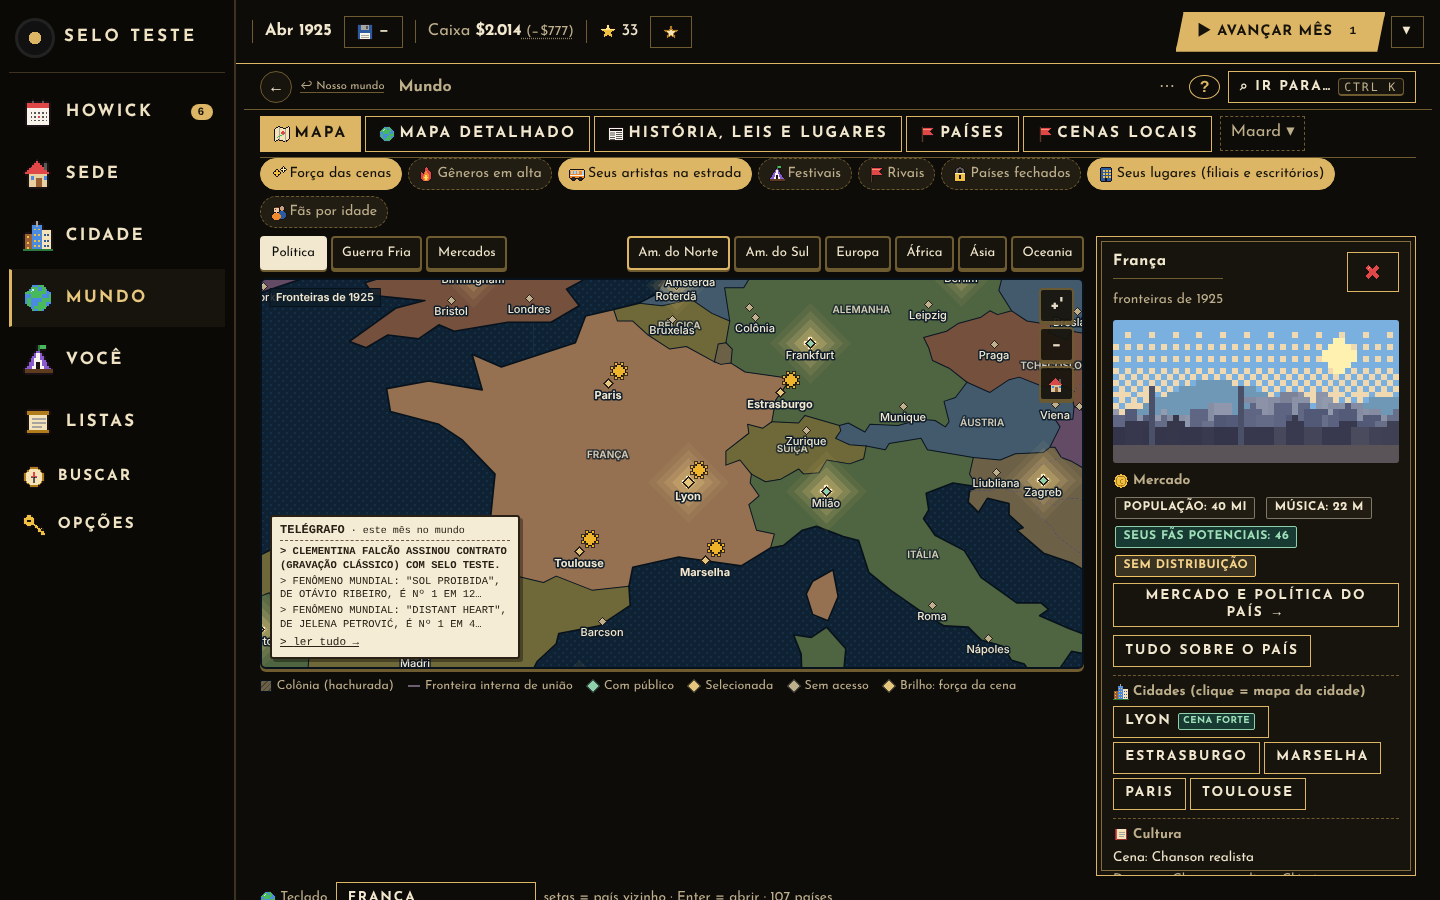
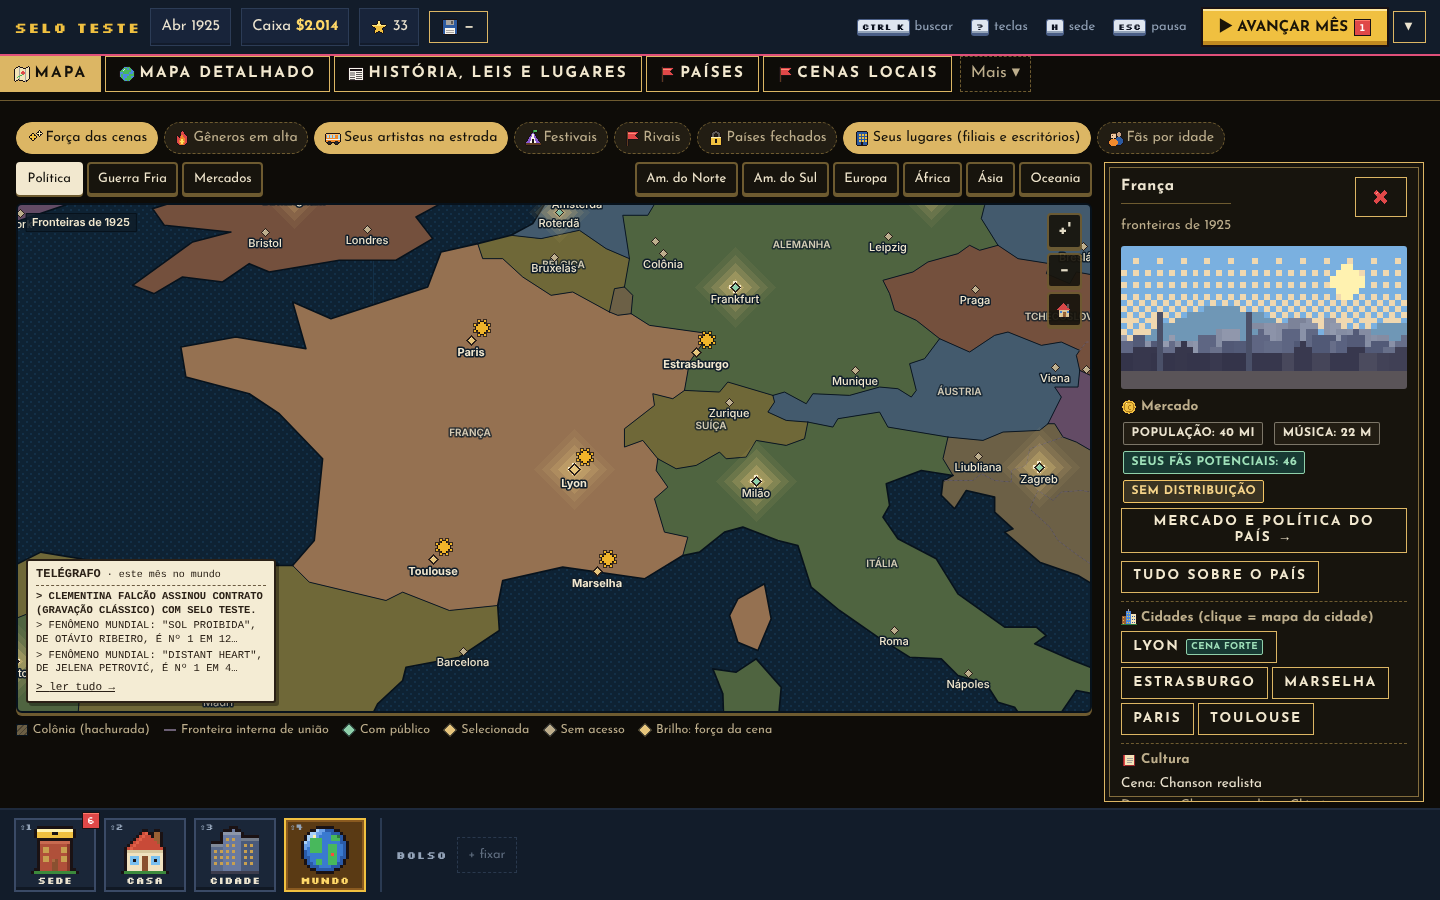
R31 onda 5 (MAPA): integração com a casca da NAV (shell5)
Cidade e mundo viram regiões da casca (registerRegion5); "ir até lá" da busca, cidade
de outro país e voltar ao mundo viajam pela casca (travel5go/show5) quando exp5.nav está
ligado; cidade visitada mora na região Mundo; teclas do mapa não vazam para a casca;
calha de 16px dentro da região; capturas refeitas com a casca.

Claude-Session: https://claude.ai/code/session_011Msspvgrqsp4SvqVtehsoo

diff --git a/src/ui/r31/map5ui.ts b/src/ui/r31/map5ui.ts
@@ -13,6 +13,7 @@ import { getLang, t } from '../../i18n/strings';
 import type { GameState } from '../../sim/types';
 import { nav5On } from '../../sim/r31/exp5';
 import { registerRegion5 } from './nav5';
+import { SH5, shell5On, show5, travel5go } from './shell5';
 import { buildScene18, drawFrame18, env18 } from '../pixel/campus18px';
 import { mapLms27 } from '../pixel/city27';
 import { skylineThumbImg29 } from '../pixel/geo29';
@@ -54,7 +55,17 @@ export function regionCmds5(s: GameState, q: string): RegionCmd5[] {
 export const CITY5: { layers: Set<Layer5>; want?: string; /** partida+cidade já vista (zera o zoom ao trocar) */ seen?: string } = { layers: defaultLayers5() };
 export const WORLD5: { country?: string; city?: string; focus?: string; want?: { lon: number; lat: number; span: number } } = {};
 
-const goArea5 = (area: string): void => { (store as { area: string }).area = area; rerender(); };
+/** Vai a uma página. Com a casca nova (frente NAV), cidade e mundo são viagens de região (o mesmo lugar só redesenha) e as
+ *  outras páginas abrem como papel do objeto dono; sem casca, troca a página como sempre. */
+function goArea5(area: string): void {
+  const s = store.game;
+  if (s && shell5On(s)) {
+    const r = area === 'campus18' ? 'cidade' : area === 'world' || area === CITY_AREA5 ? 'mundo' : null;
+    if (r) { if (SH5.region === r) rerender(); else travel5go(r); return; }
+    show5(area); return;
+  }
+  (store as { area: string }).area = area; rerender();
+}
 
 /** Apontar um prédio: abre "Nosso mundo" e, ao desenhar, centraliza e mostra a seta em cima dele. */
 export function pointCity5(id: string): void { CITY5.want = id; goArea5('campus18'); }
@@ -82,7 +93,7 @@ registerFind5('mundo', (s, q) => find5(s, q).filter((x) => x.region === 'mundo')
 // Casca (frente NAV): a cena das regiões 'cidade' e 'mundo' É o mapa — a página da região (campus18 / mapa-múndi), que
 // com exp5.nav ligado já vem sem lista. Registrar devolve essa página; a casca põe topo, viagem e bolso em volta.
 registerRegion5('cidade', (c) => c.old());
-registerRegion5('mundo', (c) => c.old());
+registerRegion5('mundo', (c) => (WORLD5.city ? visitCity5(c.s, WORLD5.city) : c.old())); // cidade de outro país = o mapa dela, dentro do Mundo
 
 // ---------------------------------------------------------------- cidade: placas, "!", teclado, apontar
 
@@ -111,7 +122,7 @@ export function cityPanel5(s: GameState, pins: Pin5[], o: { fn: boolean; setFn: 
       h('li', null, kbd5('+ −'), ' ', T(l('aproxima e afasta', 'zoom in and out')), ' · ', kbd5('0'), ' ', T(l('cidade inteira', 'whole city'))),
       h('li', null, kbd5('N'), ' ', T(l('próxima novidade', 'next news'))),
       h('li', null, kbd5('Ctrl K'), ' ', T(l('busca e aponta no mapa', 'search and point on the map')))),
-    h('p', { class: 'small muted' }, `${T(city?.name ?? l('Sua cidade', 'Your city'))} · ${s.year}`));
+    h('p', { class: 'small muted' }, document.createTextNode(`${T(city?.name ?? l('Sua cidade', 'Your city'))} · ${s.year}`))); // nome da cidade cru (o filtro de nomes reais trocaria "Rio")
 }
 
 const center5 = (b: HTMLElement): Pt5 => ({ id: b.dataset.id ?? '', x: b.offsetLeft + b.offsetWidth / 2, y: b.offsetTop + b.offsetHeight / 2 });
@@ -156,9 +167,10 @@ export function cityKeys5(vp: HTMLElement, layer: HTMLElement, o: { zoom: (f: nu
       if (nb) { nb.focus({ preventScroll: true }); o.show(nb); }
       return;
     }
-    if (e.key === '+' || e.key === '=') { e.preventDefault(); o.zoom(1.4); return; }
-    if (e.key === '-' || e.key === '_') { e.preventDefault(); o.zoom(1 / 1.4); return; }
-    if (e.key === '0' || e.key === 'Home') { e.preventDefault(); o.reset(); return; }
+    // as teclas do mapa não vazam para as teclas da casca (0, +, − também são atalhos de objetos)
+    if (e.key === '+' || e.key === '=') { e.preventDefault(); e.stopPropagation(); o.zoom(1.4); return; }
+    if (e.key === '-' || e.key === '_') { e.preventDefault(); e.stopPropagation(); o.zoom(1 / 1.4); return; }
+    if (e.key === '0' || e.key === 'Home') { e.preventDefault(); e.stopPropagation(); o.reset(); return; }
     if (e.key === 'n' || e.key === 'N' || e.key === '!') { e.preventDefault(); e.stopPropagation(); nextBang5(layer, o.show); }
   });
 }

diff --git a/src/ui/r31/map5.css b/src/ui/r31/map5.css
@@ -74,3 +74,5 @@
 .c18-tip .m5-bang { margin-top: 3px; }
 .m5-cbtn { white-space: nowrap; gap: 4px; }
 .m5-cbtn .pill { font-size: 9.5px; padding: 0 4px; line-height: 1.5; }
+/* dentro da casca nova (reg5) a região não tem margem própria: o mapa ganha a calha de 16px */
+.reg5 .m5-world, .reg5 .m5-visit { padding: 8px 16px 16px; box-sizing: border-box; }
